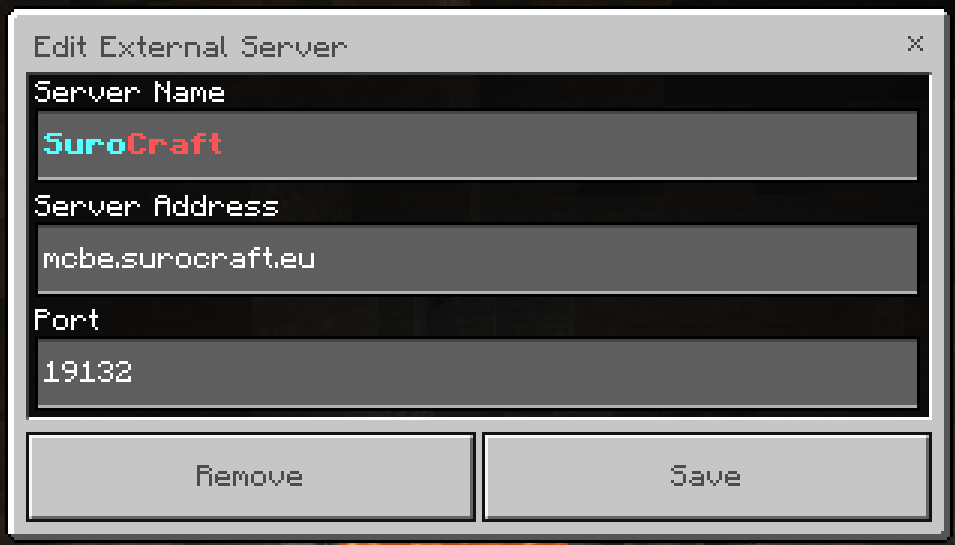
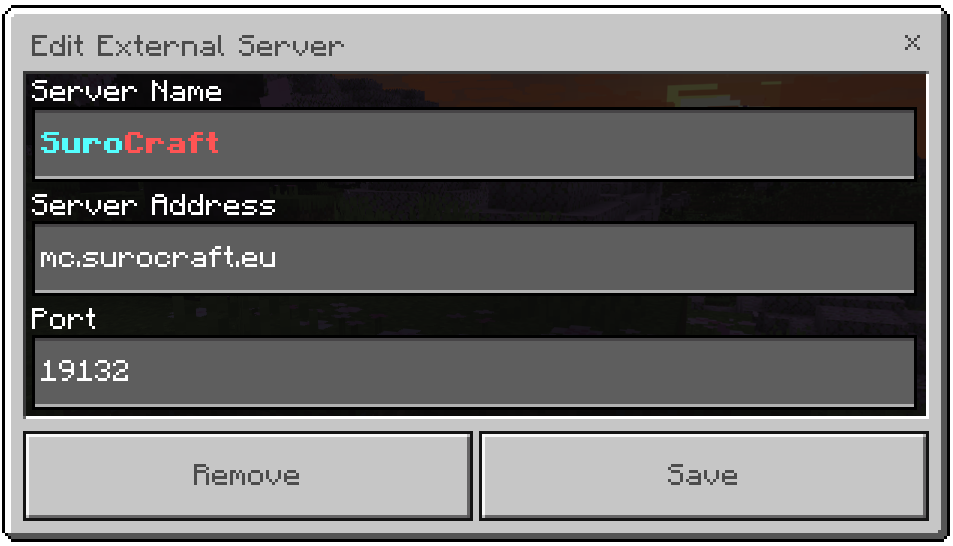
GITBOOK-10: Updated server IP address

Changed region(s): [[0.0, 0.0, 1.0, 1.0], [0.1826, 0.8422, 0.3347, 0.9046], [0.6999, 0.8422, 0.7912, 0.9046]]

diff --git a/README.md b/README.md
@@ -63,7 +63,7 @@ Server je dostupný pro Minecraft: **Bedrock Edition** a **Java Edition**\
 
 _Nejaktualizovanější informace najdeš na našem webu_ [_zde_](https://surocraft.eu/#join)_._
 
-<table data-header-hidden><thead><tr><th>EDICE</th><th align="center">Verze</th><th align="center">IP</th><th width="200">PORT</th></tr></thead><tbody><tr><td><strong>EDICE</strong></td><td align="center"><strong>VERZE</strong></td><td align="center"><strong>ADRESA SERVERU</strong></td><td><strong>PORT</strong></td></tr><tr><td>Java</td><td align="center">1.7 a novější</td><td align="center">mc.surocraft.eu</td><td>25565</td></tr><tr><td>Bedrock</td><td align="center">1.20 a novější</td><td align="center">mcbe.surocraft.eu</td><td>19132</td></tr></tbody></table>
+<table data-header-hidden><thead><tr><th>EDICE</th><th align="center">VERZE</th><th align="center">IP</th><th width="200">PORT</th></tr></thead><tbody><tr><td><strong>EDICE</strong></td><td align="center"><strong>VERZE</strong></td><td align="center"><strong>IP ADRESA</strong></td><td><strong>PORT</strong></td></tr><tr><td>Java</td><td align="center">1.7 a novější</td><td align="center">mc.surocraft.eu</td><td>25565</td></tr><tr><td>Bedrock</td><td align="center">1.20 a novější</td><td align="center">mc.surocraft.eu</td><td>19132</td></tr></tbody></table>
 
 Pro Java Edition hráče doporučujeme používat verzi 1.17 či vyšší pro lepší kompatibilitu.\
 Připojením na server souhlasíš s našimi [pravidly](server/pravidla/).
